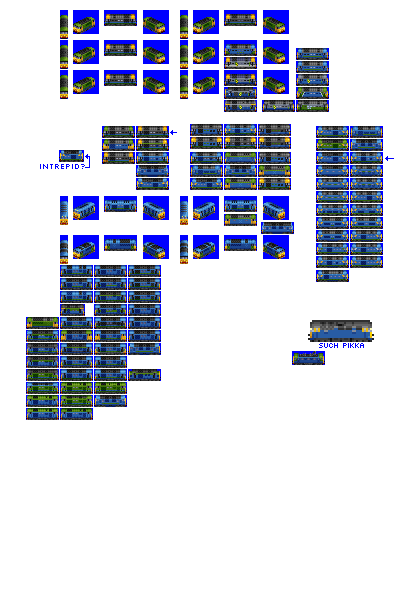
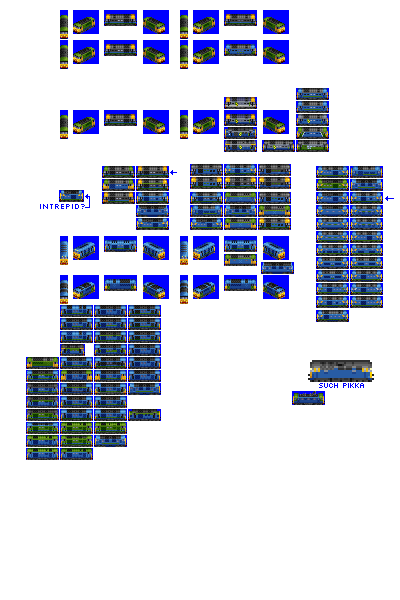
Change: limit alternative liveries on CC to just 1, it's simpler for both explaining to player, and making design / authoring choices

Changed region(s): [[0.06, 0.06, 0.96, 0.78]]

diff --git a/src/render_docs.py b/src/render_docs.py
@@ -191,24 +191,21 @@ class DocHelper(object):
                 }
 
     def get_docs_livery_variants(self, consist):
-        # blue and red_white are defaults
-        # !! blue is wrong for legacy reasons, the colour used is actually dark blue
-        variants_config = [{'dark_blue_dark_blue': {'cc_remaps': {'CC1': 'COLOUR_DARK_BLUE', 'CC2': 'COLOUR_DARK_BLUE'}, 'docs_image_input_cc': ('COLOUR_DARK_BLUE', 'COLOUR_DARK_BLUE')},
-                            'red_white': {'cc_remaps': {'CC1': 'COLOUR_RED', 'CC2': 'COLOUR_WHITE'}, 'docs_image_input_cc': ('COLOUR_RED', 'COLOUR_WHITE')},
-                            }]
+        # dark blue / dark blue and red / white are defaults
+        variants_config = []
 
-        """
-        default_livery_extra_docs_examples = getattr(consist.gestalt_graphics, 'default_livery_extra_docs_examples', None)
-        if default_livery_extra_docs_examples is not None:
-            result={}
-            for cc_remap_pair in default_livery_extra_docs_examples:
-                livery_name = (self.get_livery_file_substr(cc_remap_pair))
-                result[livery_name] = {}
-                result[livery_name]['cc_remaps'] = {'CC1': cc_remap_pair[0], 'CC2': cc_remap_pair[1]}
-                result[livery_name]['docs_image_input_cc'] = cc_remap_pair
-                print(result)
-            variants_config.append(result)
-        """
+        default_livery_examples = [('COLOUR_DARK_BLUE', 'COLOUR_DARK_BLUE'), ('COLOUR_RED', 'COLOUR_WHITE')]
+        default_livery_examples.extend(getattr(consist.gestalt_graphics, 'default_livery_extra_docs_examples', []))
+
+        result={}
+        for cc_remap_pair in default_livery_examples:
+            livery_name = (self.get_livery_file_substr(cc_remap_pair))
+            result[livery_name] = {}
+            result[livery_name]['cc_remaps'] = {'CC1': cc_remap_pair[0], 'CC2': cc_remap_pair[1]}
+            result[livery_name]['docs_image_input_cc'] = cc_remap_pair
+
+        variants_config.append(result)
+
         cc_liveries = getattr(consist.gestalt_graphics, 'cc_liveries', None)
         if cc_liveries is not None:
             for cc_livery in cc_liveries:

diff --git a/src/vehicles/slug.py b/src/vehicles/slug.py
@@ -11,8 +11,8 @@ def main(roster_id):
                             power=1950, # progression calculated to maintain hp/speed ratio from previous gen
                             random_reverse=True,
                             gen=5,
-                            cc_livery_keys=['RAILFREIGHT_TRIPLE_GREY', 'EWS'],
-                            default_livery_extra_docs_examples=[('COLOUR_GREY', 'COLOUR_YELLOW')],
+                            cc_livery_keys=['RAILFREIGHT_TRIPLE_GREY'],
+                            default_livery_extra_docs_examples=[('COLOUR_GREY', 'COLOUR_YELLOW'), ('COLOUR_WHITE', 'COLOUR_GREY'), ('COLOUR_GREY', 'COLOUR_GREY'), ('COLOUR_PALE_GREEN', 'COLOUR_PALE_GREEN'), ('COLOUR_LIGHT_BLUE', 'COLOUR_WHITE')],
                             sprites_complete=False)
 
     consist.add_unit(type=DieselEngineUnit,

diff --git a/src/vehicles/resilient.py b/src/vehicles/resilient.py
@@ -13,7 +13,8 @@ def main(roster_id):
                             gen=5,
                             intro_date_offset=4,  # let's not have everything turn up in 1990
                             fixed_run_cost_points=100, # give a bonus so this can be a genuine mixed-traffic engine
-                            cc_livery_keys=['FREIGHTLINER', 'RAILFREIGHT_TRIPLE_GREY'], # tried liveries for RES, etc, not convinced
+                            cc_livery_keys=['FREIGHTLINER'], # tried liveries for RES, etc, not convinced
+                            default_livery_extra_docs_examples=[('COLOUR_BLUE', 'COLOUR_WHITE')],
                             sprites_complete=False)
 
     consist.add_unit(type=DieselEngineUnit,

diff --git a/src/rosters/pony.py b/src/rosters/pony.py
@@ -186,7 +186,7 @@ def main(disabled=False):
                                       'YEOMAN': {'cc1': ['COLOUR_GREY', 'COLOUR_WHITE'],
                                                  'not_cc2': [],
                                                  'remap_to_cc': None,
-                                                 'docs_image_input_cc': [('COLOUR_GREY', 'COLOUR_BLUE'), ('COLOUR_GREY', 'COLOUR_DARK_BLUE')]
+                                                 'docs_image_input_cc': [('COLOUR_GREY', 'COLOUR_BLUE'), ('COLOUR_WHITE', 'COLOUR_DARK_BLUE')]
                                                  }
                                       },
 

diff --git a/src/vehicles/screamer.py b/src/vehicles/screamer.py
@@ -13,7 +13,8 @@ def main(roster_id):
                             gen=5,
                             pantograph_type='z-shaped-double',
                             intro_date_offset=2, # introduce later than gen epoch by design
-                            cc_livery_keys=['RAILFREIGHT_TRIPLE_GREY', 'RES_FAIL'],
+                            cc_livery_keys=['FREIGHTLINER'],
+                            default_livery_extra_docs_examples=[('COLOUR_WHITE', 'COLOUR_BLUE'), ('COLOUR_BLUE', 'COLOUR_WHITE'), ('COLOUR_PINK', 'COLOUR_DARK_BLUE')],
                             sprites_complete=False)
 
     consist.add_unit(type=ElectricEngineUnit,

diff --git a/src/vehicles/griffon.py b/src/vehicles/griffon.py
@@ -11,7 +11,8 @@ def main(roster_id):
                             power=1650,
                             random_reverse=True,
                             gen=5,
-                            cc_livery_keys=['RAILFREIGHT_TRIPLE_GREY', 'EWS'],
+                            cc_livery_keys=['RAILFREIGHT_TRIPLE_GREY'],
+                            default_livery_extra_docs_examples=[('COLOUR_GREY', 'COLOUR_YELLOW'), ('COLOUR_WHITE', 'COLOUR_GREY'), ('COLOUR_GREY', 'COLOUR_GREY'), ('COLOUR_LIGHT_BLUE', 'COLOUR_WHITE')],
                             sprites_complete=False)
 
     consist.add_unit(type=DieselEngineUnit,

diff --git a/src/vehicles/fury.py b/src/vehicles/fury.py
@@ -15,6 +15,7 @@ def main(roster_id):
                             pantograph_type='z-shaped-double',
                             intro_date_offset=1,  # introduce later than gen epoch by design
                             cc_livery_keys=['RAILFREIGHT_TRIPLE_GREY'],
+                            default_livery_extra_docs_examples=[('COLOUR_GREEN', 'COLOUR_YELLOW'), ('COLOUR_PALE_GREEN', 'COLOUR_PALE_GREEN'), ('COLOUR_LIGHT_BLUE', 'COLOUR_WHITE')],
                             sprites_complete=False)
 
     consist.add_unit(type=ElectricEngineUnit,

diff --git a/src/vehicles/cheddar_valley.py b/src/vehicles/cheddar_valley.py
@@ -14,7 +14,7 @@ def main(roster_id):
                             random_reverse=True,
                             intro_date_offset=3,  # let's be a little bit later for this one
                             gen=5,
-                            cc_livery_keys=['EWS', 'FREIGHTLINER', 'YEOMAN'],
+                            cc_livery_keys=['YEOMAN'],
                             sprites_complete=False)
 
     consist.add_unit(type=DieselEngineUnit,

diff --git a/src/vehicles/growler.py b/src/vehicles/growler.py
@@ -12,6 +12,7 @@ def main(roster_id):
                             random_reverse=True,
                             gen=4,
                             cc_livery_keys=['RAILFREIGHT_RED_STRIPE'],
+                            default_livery_extra_docs_examples=[('COLOUR_PALE_GREEN', 'COLOUR_GREY'), ('COLOUR_PINK', 'COLOUR_WHITE')],
                             sprites_complete=True)
 
     consist.add_unit(type=DieselEngineUnit,

diff --git a/src/vehicles/chinook.py b/src/vehicles/chinook.py
@@ -11,6 +11,7 @@ def main(roster_id):
                             power=2900,
                             gen=4,
                             cc_livery_keys=['RAILFREIGHT_RED_STRIPE'],
+                            default_livery_extra_docs_examples=[('COLOUR_PALE_GREEN', 'COLOUR_GREY'), ('COLOUR_BLUE', 'COLOUR_GREY')],
                             sprites_complete=False)
 
     consist.add_unit(type=DieselEngineUnit,
